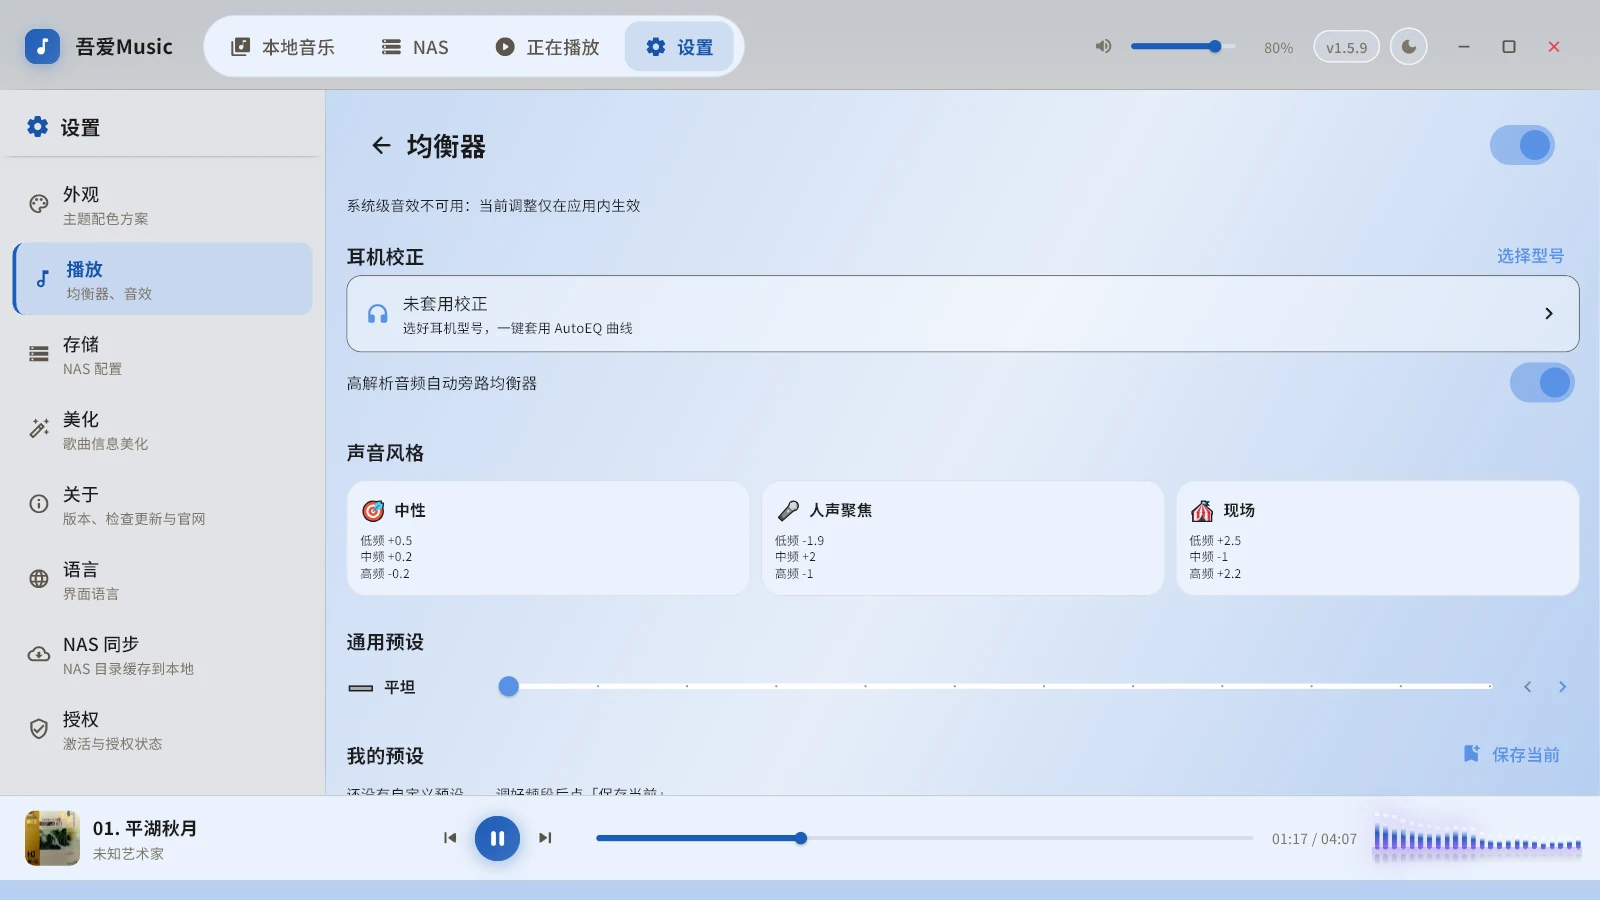
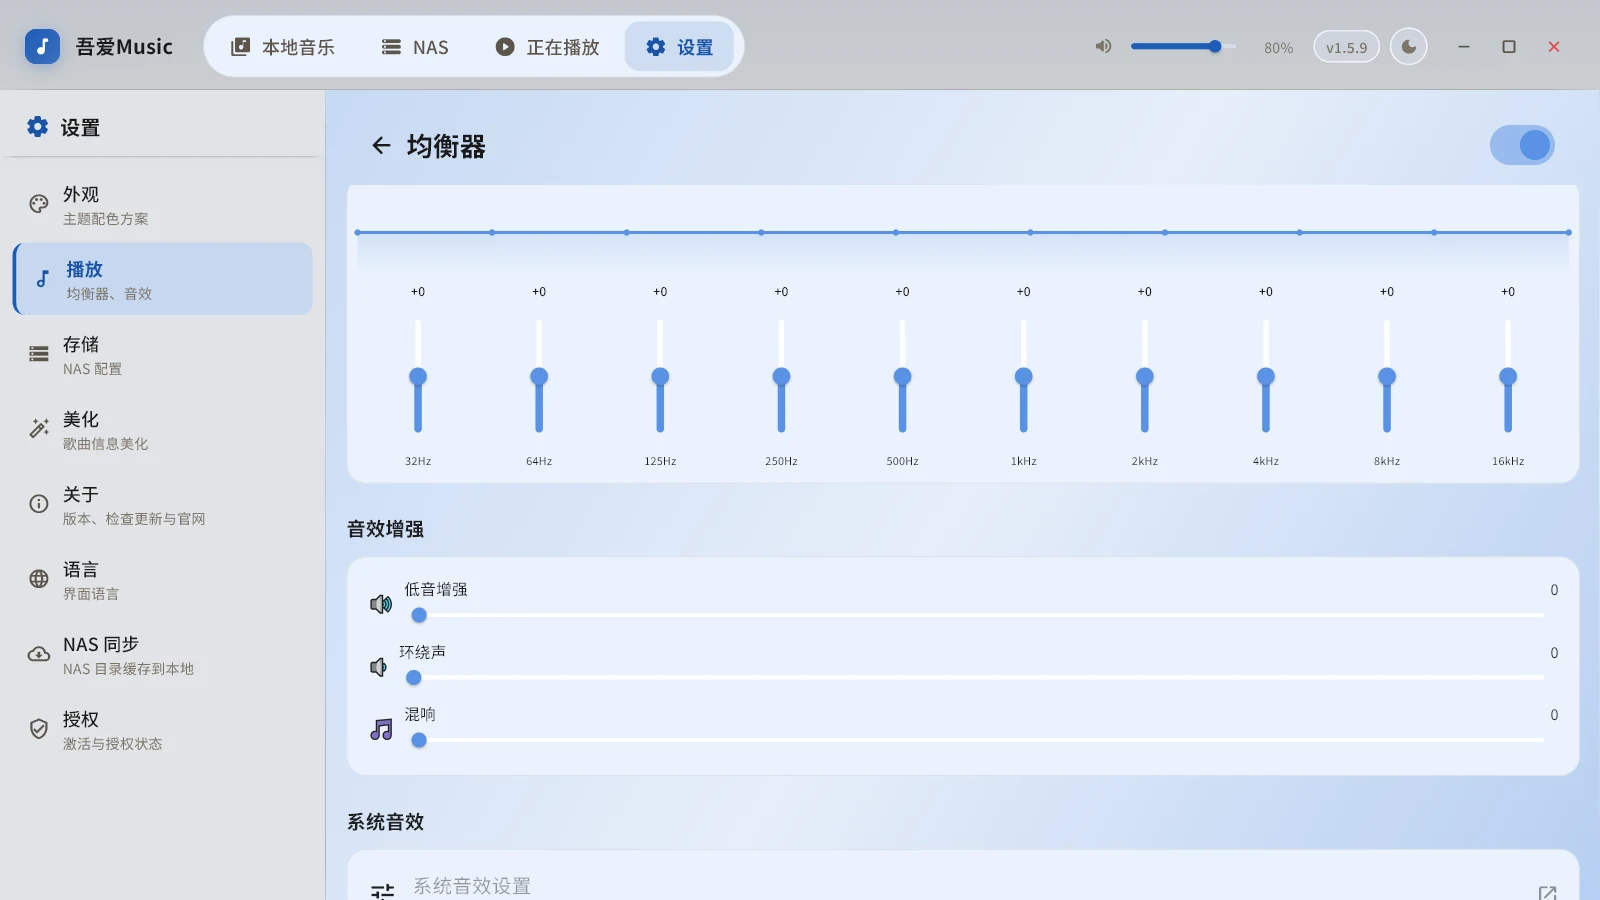
content(site): 均衡器截图改用实际版本的 10 段调节页
上一轮 win-04 截的是均衡器页**顶部**（耳机校正 / 声音风格 / 通用预设），
看着不像均衡器。这次从本机 v1.5.9 PC 版滚到主体区域重截：
实时频响曲线 + 32Hz–16kHz 十段滑杆 + 低音增强 / 环绕声 / 混响，
仍是矢车菊蓝主题、1600×900、webp q88（39KB）。

- caption：「均衡器 · 声音风格」->「10 段均衡器 · 频响曲线」
- alt 同步改成十段滑杆与音效增强的描述

本机应用临时切 ink_blue 截图后已还原 royal_purple 并关闭，配置无残留。
⚠ 下方「可视化与均衡器」区块的手机竖图仍是旧版深色主题界面：
   本机无 Android 设备 / AVD / 模拟器，无法重截手机端实际版本。

diff --git a/docs/index.html b/docs/index.html
@@ -625,8 +625,8 @@
                     <figcaption class="tv-gallery__cap">频谱 · 星云律动</figcaption>
                   </figure>
                   <figure class="tv-gallery__slide">
-                    <img src="assets/img/windows/win-04.webp" width="1600" height="900" loading="lazy" decoding="async" alt="Windows 桌面版（矢车菊蓝主题）：设置 · 均衡器，耳机校正、声音风格三档与通用预设滑杆" />
-                    <figcaption class="tv-gallery__cap">均衡器 · 声音风格</figcaption>
+                    <img src="assets/img/windows/win-04.webp" width="1600" height="900" loading="lazy" decoding="async" alt="Windows 桌面版（矢车菊蓝主题）：均衡器页，实时频响曲线与 32Hz–16kHz 十段频率调节滑杆，下方是低音增强、环绕声与混响" />
+                    <figcaption class="tv-gallery__cap">10 段均衡器 · 频响曲线</figcaption>
                   </figure>
                   <figure class="tv-gallery__slide">
                     <img src="assets/img/windows/win-05.webp" width="1600" height="900" loading="lazy" decoding="async" alt="Windows 桌面版（矢车菊蓝主题）：设置 · 主题配色，12 套内置配色卡实时切换，当前选中矢车菊蓝" />
